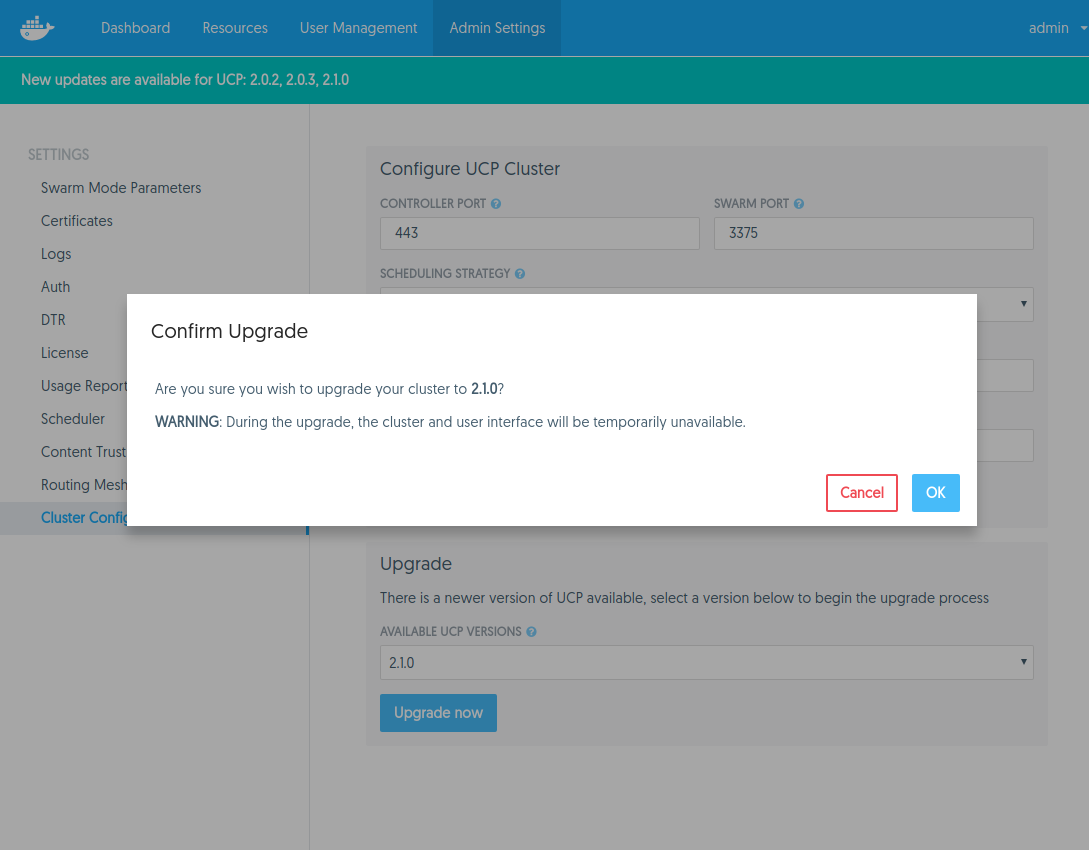
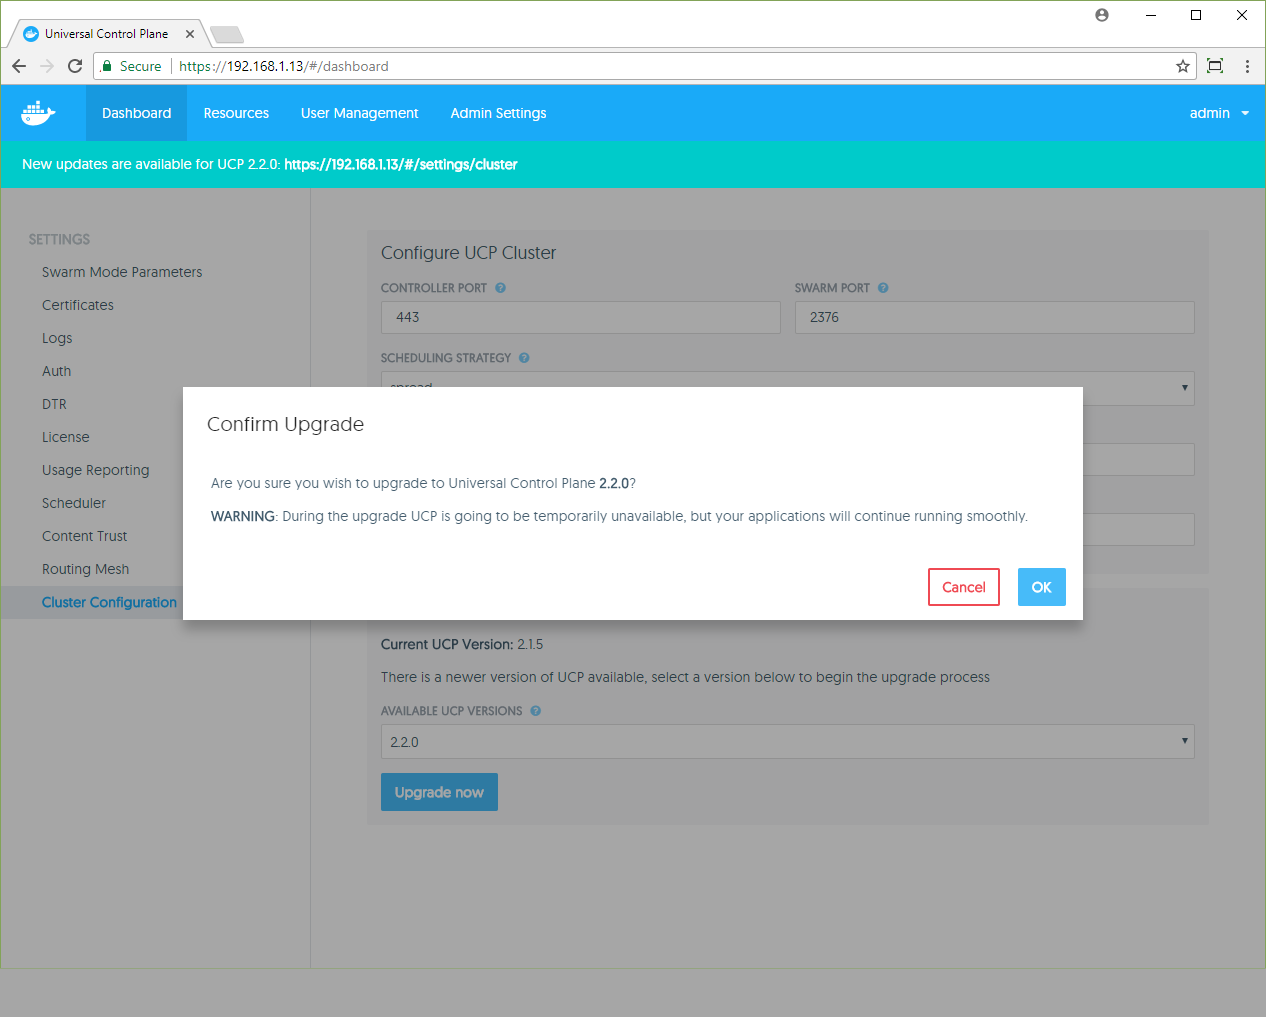
Update UCP upgrade screenshots

diff --git a/datacenter/ucp/2.2/guides/admin/install/upgrade.md b/datacenter/ucp/2.2/guides/admin/install/upgrade.md
@@ -95,8 +95,6 @@ for any necessary configuration values.
 Once the upgrade finishes, navigate to the UCP web UI and make sure that
 all the nodes managed by UCP are healthy.
 
-![](../../images/upgrade-ucp-4.png)
-
 ## Where to go next
 
 * [UCP release notes](../../release-notes/index.md)
